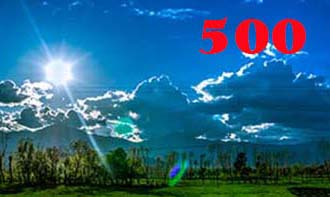
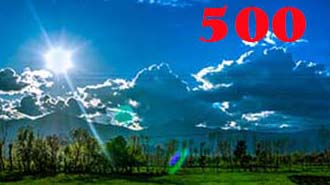
update

diff --git a/lesson6/preston.html b/lesson6/preston.html
@@ -50,9 +50,9 @@
         <h2>Preston Idaho</h2>
         <div class="herodiv">
           <picture class="myphotoA">
-              <source media="(max-width: 200px)" srcset="images/hero200.jpg">  
-              <source media="(max-width: 500px)" srcset="images/hero500.jpg">
-              <source media="(max-width: 800px)" srcset="images/hero800.jpg">
+              <source media="(min-width: 200px)" srcset="images/hero200small.jpg">
+              <source media="(min-width: 400px)" srcset="images/hero400small.jpg">
+              <source media="(min-width: 800px)" srcset="images/hero800medium.jpg">
               <img src="images/hero1100.jpg" alt="hero">
               
                 <!-- enhance-desktop 

diff --git a/lesson6/css/small.css b/lesson6/css/small.css
@@ -15,11 +15,17 @@ main picture.myphoto figcaption {text-align: center;font-size: .75rem;}
 */
 
 picture.myphotoA {
-    display: block;
-    width: 96%;
+    /*display: block;
+    width: 80%;*/
+    width: 50%;
+    height: auto;
     margin: 0 2%;
 }
-main picture.myphotoA img, main picture.myphotoB img {width: 100%; }
+/*
+main picture.myphotoA img, main picture.myphotoB img {width: 100%; }*/
+
+main picture.myphotoA img, main picture.myphotoB img {width: 90%; }
+
 
 main picture.myphotoA div, main picture.photoB div {
     text-align: center;
